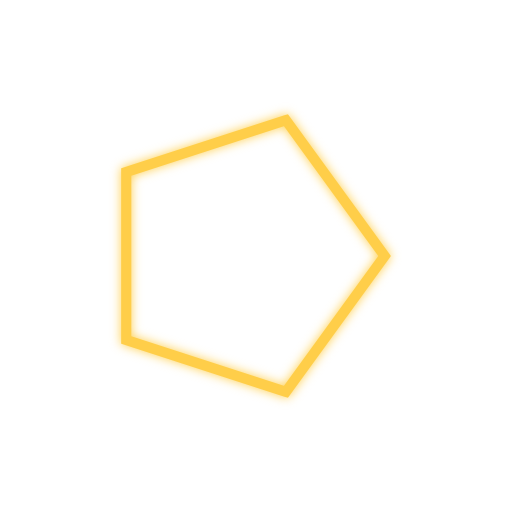
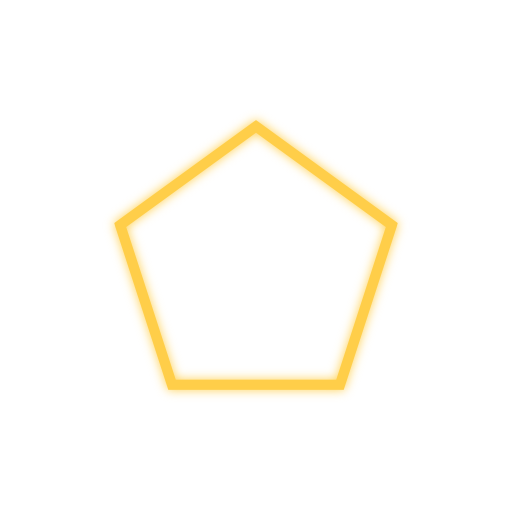
Update
Add new boss
Change Image

Changed region(s): [[0.2188, 0.2188, 0.7812, 0.7812]]

diff --git a/AnglesStageEditor/Assets/Editor/BaseStageEditor.cs b/AnglesStageEditor/Assets/Editor/BaseStageEditor.cs
@@ -22,9 +22,10 @@ public class BaseStageEditor : Editor
         {
             { Name.Player_Not_Used, Resources.Load<Sprite>("Images/Player_Not_Used") },
 
-            { Name.Tricon, Resources.Load<Sprite>("Images/Enemy/Boss/Angles_Boss_Tricorn") },
-            { Name.Rhombus, Resources.Load<Sprite>("Images/Enemy/Boss/Angles_Boss_Rhombus") },
-            { Name.Pentagonic, Resources.Load<Sprite>("Images/Enemy/Boss/Angles_Boss_Pentagonic") },
+            { Name.Tricon, Resources.Load<Sprite>("Images/Enemy/Boss/Angles_Chapter1_BossTricorn") },
+            { Name.Rhombus, Resources.Load<Sprite>("Images/Enemy/Boss/Angles_Chapter2_BossRhombus") },
+            { Name.Pentagonic, Resources.Load<Sprite>("Images/Enemy/Boss/Angles_Chapter3_BossPentagonic") },
+            { Name.Hexahorn, Resources.Load<Sprite>("Images/Enemy/Boss/Angles_Chapter4_BossHexahorn") },
 
             { Name.YellowTriangle, Resources.Load<Sprite>("Images/Enemy/Yellow/AnglesEnemyTriYellow") },
             { Name.YellowRectangle, Resources.Load<Sprite>("Images/Enemy/Yellow/AnglesEnemyRectYellow") },
@@ -36,28 +37,41 @@ public class BaseStageEditor : Editor
             { Name.RedPentagon, Resources.Load<Sprite>("Images/Enemy/Red/AnglesEnemyPentaRed") },
             { Name.RedHexagon, Resources.Load<Sprite>("Images/Enemy/Red/AgnlesEnemyHectaRed") },
 
+            { Name.OperaTriangle, Resources.Load<Sprite>("Images/Enemy/Opera/AnglesEnemyTriOpera") },
+            { Name.OperaRectangle, Resources.Load<Sprite>("Images/Enemy/Opera/AnglesEnemyRectOpera") },
+            { Name.OperaPentagon, Resources.Load<Sprite>("Images/Enemy/Opera/AnglesEnemyPentaOpera") },
+            { Name.OperaHexagon, Resources.Load<Sprite>("Images/Enemy/Opera/AgnlesEnemyHectaOpera") },
+
             { Name.Bomb, Resources.Load<Sprite>("Images/AnglesBomb") },
         };
+
+        const float size = 0.6f;
 
         Dictionary<Name, float> enemyScaleDictionary = new Dictionary<Name, float>()
         {
             { Name.Player_Not_Used, 1f },
 
-            { Name.YellowTriangle, 0.4f },
-            { Name.YellowRectangle, 0.4f },
-            { Name.YellowPentagon, 0.5f },
-            { Name.YellowHexagon, 0.5f },
+            { Name.YellowTriangle, size },
+            { Name.YellowRectangle, size },
+            { Name.YellowPentagon, size },
+            { Name.YellowHexagon, size },
 
-            { Name.RedTriangle, 0.4f },
-            { Name.RedRectangle, 0.4f },
-            { Name.RedPentagon, 0.45f },
-            { Name.RedHexagon, 0.45f },
+            { Name.RedTriangle, size },
+            { Name.RedRectangle, size },
+            { Name.RedPentagon, size },
+            { Name.RedHexagon, size },
 
-            { Name.Tricon, 0.6f },
-            { Name.Rhombus, 0.6f },
-            { Name.Pentagonic, 0.75f },
+            { Name.OperaTriangle, size },
+            { Name.OperaRectangle, size },
+            { Name.OperaPentagon, size },
+            { Name.OperaHexagon, size },
 
-            { Name.Bomb, 0.7f },
+            { Name.Tricon, size },
+            { Name.Rhombus, size },
+            { Name.Pentagonic, size },
+            { Name.Hexahorn, size },
+
+            { Name.Bomb, size },
 
         };
 

diff --git a/AnglesStageEditor/Assets/Scripts/Designer/StageData.cs b/AnglesStageEditor/Assets/Scripts/Designer/StageData.cs
@@ -28,9 +28,15 @@ public enum Name
     RedPentagon,
     RedHexagon,
 
+    OperaTriangle,
+    OperaRectangle,
+    OperaPentagon,
+    OperaHexagon,
+
     Tricon,
     Rhombus,
     Pentagonic,
+    Hexahorn,
 
     Bomb
 }
